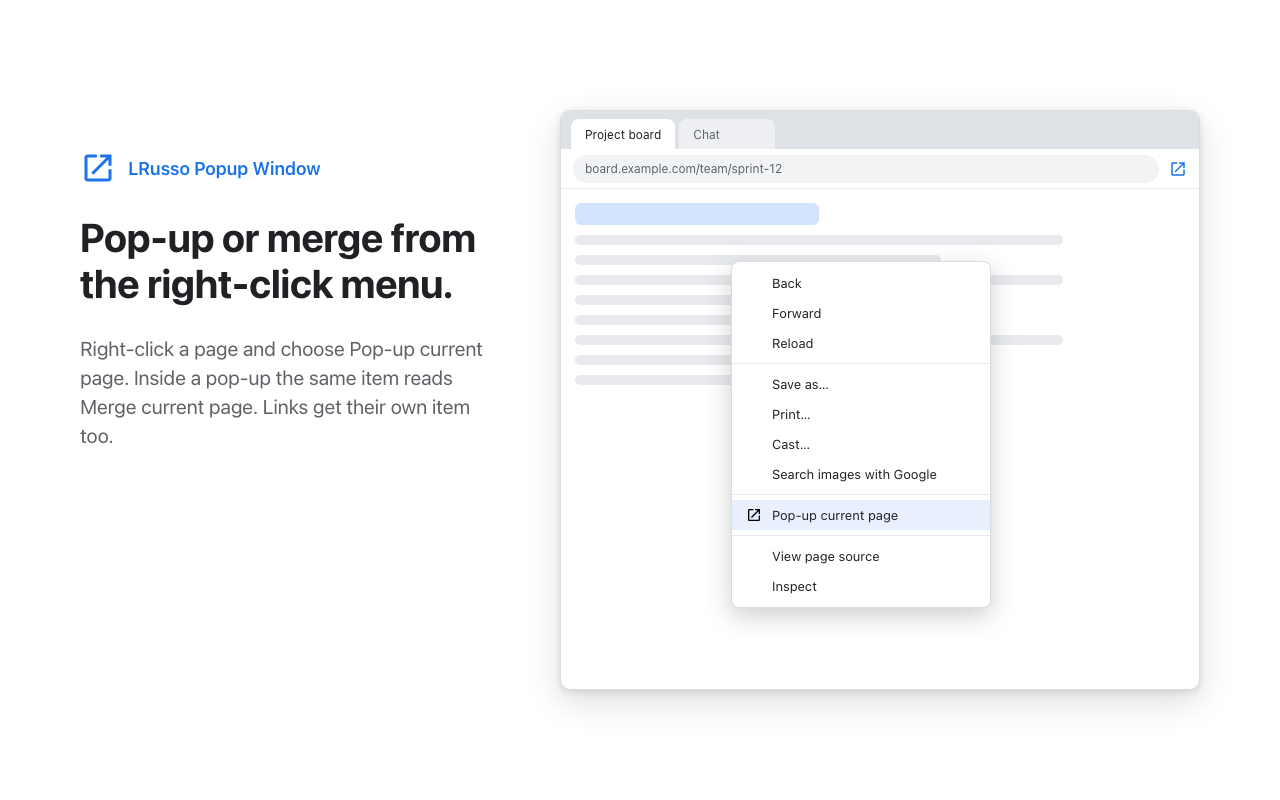
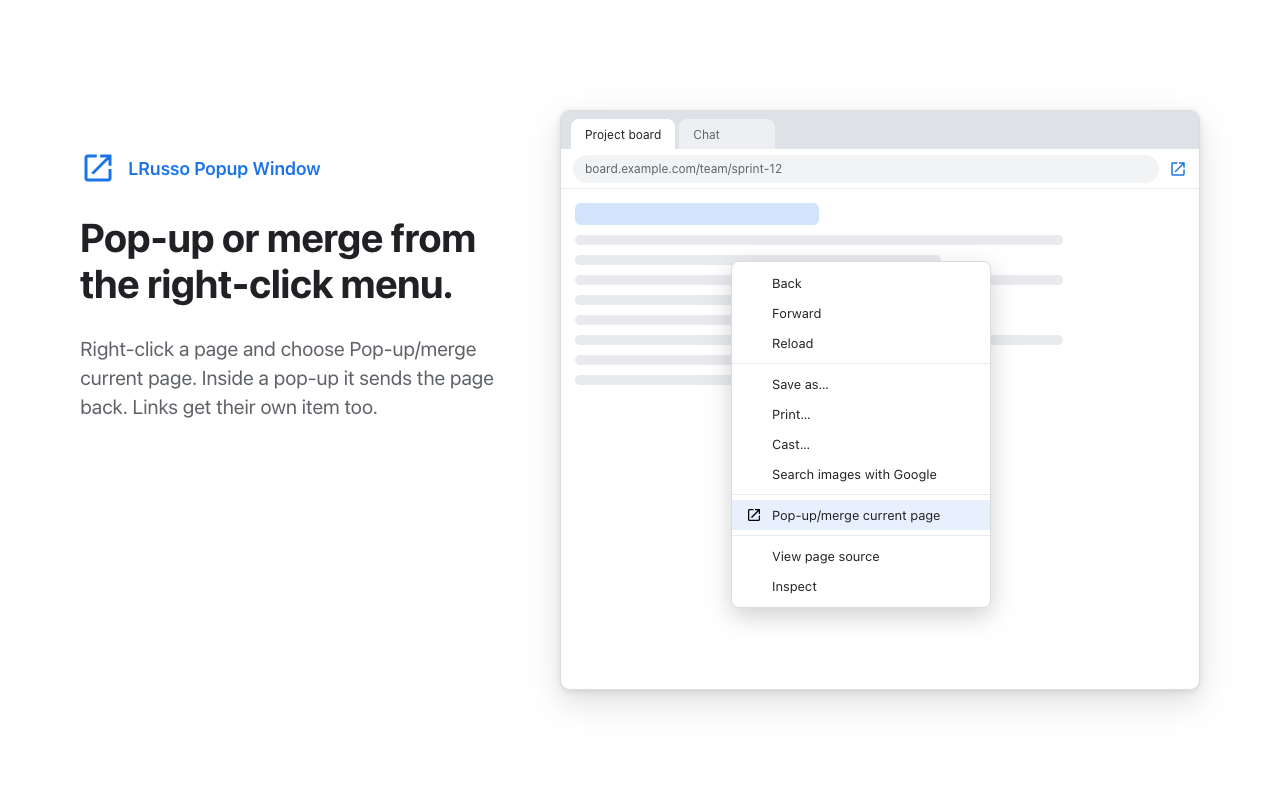
Use one fixed Pop-up/merge current page title for the page menu item and update the context menu screenshot

Changed region(s): [[0.0625, 0.4375, 0.375, 0.5625], [0.625, 0.625, 0.75, 0.6562]]

diff --git a/src/background.js b/src/background.js
@@ -93,23 +93,10 @@ const ensurePreferences = () => {
 
 // ---- Context menus ------------------------------------------------------------
 
-// The page menu item says "Pop-up current page" in a normal window and
-// "Merge current page" inside a pop-up window. Its title follows the focused
-// window (see windows.onFocusChanged), since a right-click focuses the window
-// before the menu is shown.
-const pageMenuTitle = (windowInfo) => {
-  let inPopup = windowInfo && windowInfo.type === "popup"
-  return chrome.i18n.getMessage(inPopup ? "mergeThisPage" : "popupThisPage")
-}
-
+// Remembers the focus order of normal windows, used when merging.
 const onWindowFocused = async (windowId) => {
   let windowInfo = await windowsGet(windowId)
   if (!windowInfo) return
-  chrome.contextMenus.update(
-    MENU_MOVE_THIS_PAGE,
-    { title: pageMenuTitle(windowInfo) },
-    ignoreLastError
-  )
   if (windowInfo.type === "normal" && focusedNormalWindows[0] !== windowId) {
     focusedNormalWindows = [
       windowId,
@@ -120,8 +107,9 @@ const onWindowFocused = async (windowId) => {
 }
 
 // Menus are rebuilt from scratch so this is safe to call on every startup.
+// The page item has one title for both cases: Chrome can't change it per window,
+// and on macOS a right-click on a background window doesn't focus it.
 const rebuildMenus = async () => {
-  let focused = await windowsGetLastFocused()
   await new Promise((resolve) => {
     chrome.contextMenus.removeAll(() => {
       ignoreLastError()
@@ -136,7 +124,7 @@ const rebuildMenus = async () => {
       chrome.contextMenus.create(
         {
           id: MENU_MOVE_THIS_PAGE,
-          title: pageMenuTitle(focused),
+          title: chrome.i18n.getMessage("moveThisPage"),
           contexts: ["page", "frame"],
         },
         ignoreLastError

diff --git a/store/sources/screenshot-3-context-menu.html b/store/sources/screenshot-3-context-menu.html
@@ -49,8 +49,8 @@
       </div>
       <h1>Pop-up or merge from the right-click menu.</h1>
       <p class="lead">
-        Right-click a page and choose Pop-up current page. Inside a pop-up the same
-        item reads Merge current page. Links get their own item too.
+        Right-click a page and choose Pop-up/merge current page. Inside a pop-up
+        it sends the page back. Links get their own item too.
       </p>
     </div>
     <div class="window" style="left:560px; top:110px; width:640px; height:580px;">
@@ -106,7 +106,7 @@
             <path
               d="M405.34,405.332H106.66V106.668H240V64H106.66C83.191,64,64,83.197,64,106.668v298.664C64,428.803,83.191,448,106.66,448h298.68c23.469,0,42.66-19.197,42.66-42.668V272h-42.66V405.332z M288,64v42.668h87.474L159.999,322.133l29.866,29.866l215.476-215.47V224H448V64H288z"
             /></svg
-          ><span>Pop-up current page</span>
+          ><span>Pop-up/merge current page</span>
         </div>
         <div class="sep"></div>
         <div class="mi"><i class="sp"></i><span>View page source</span></div>
